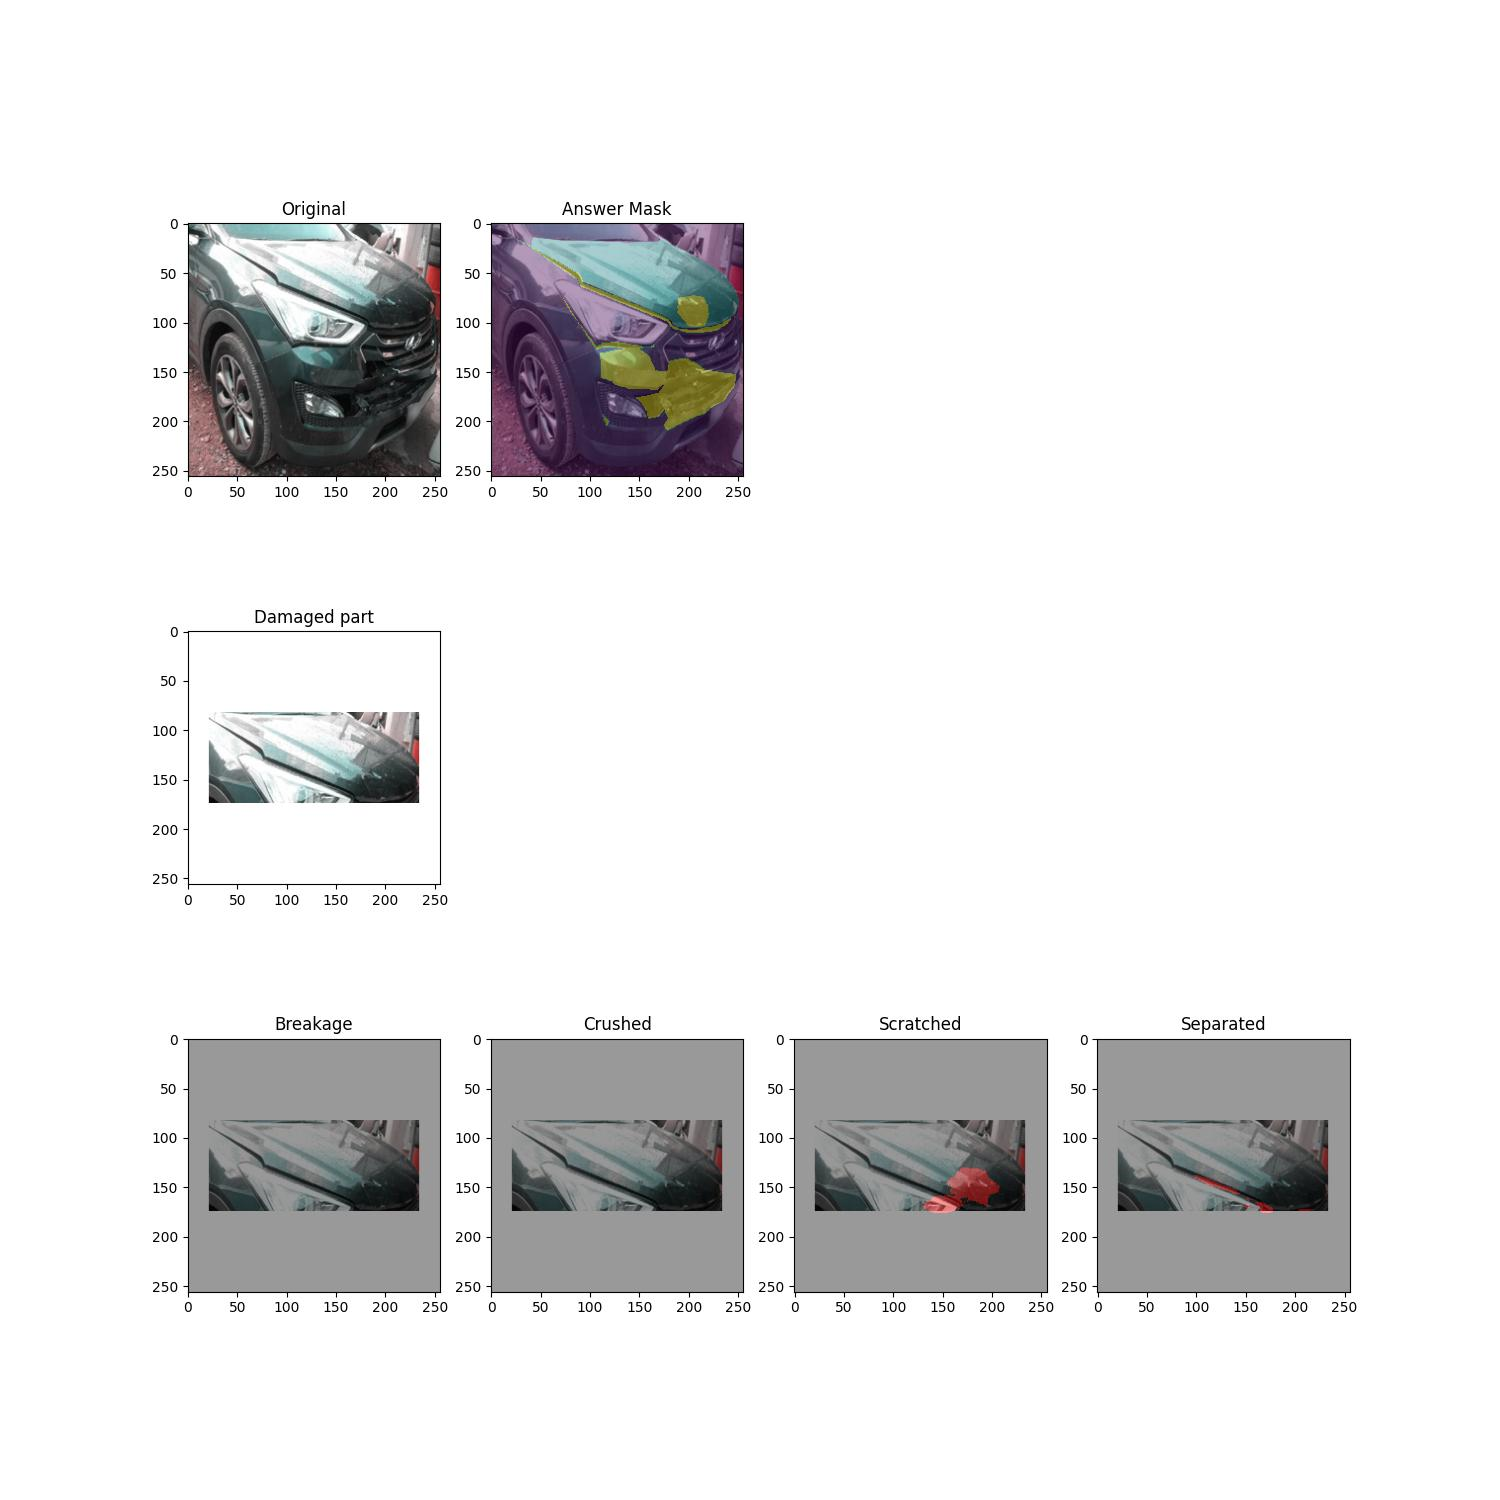
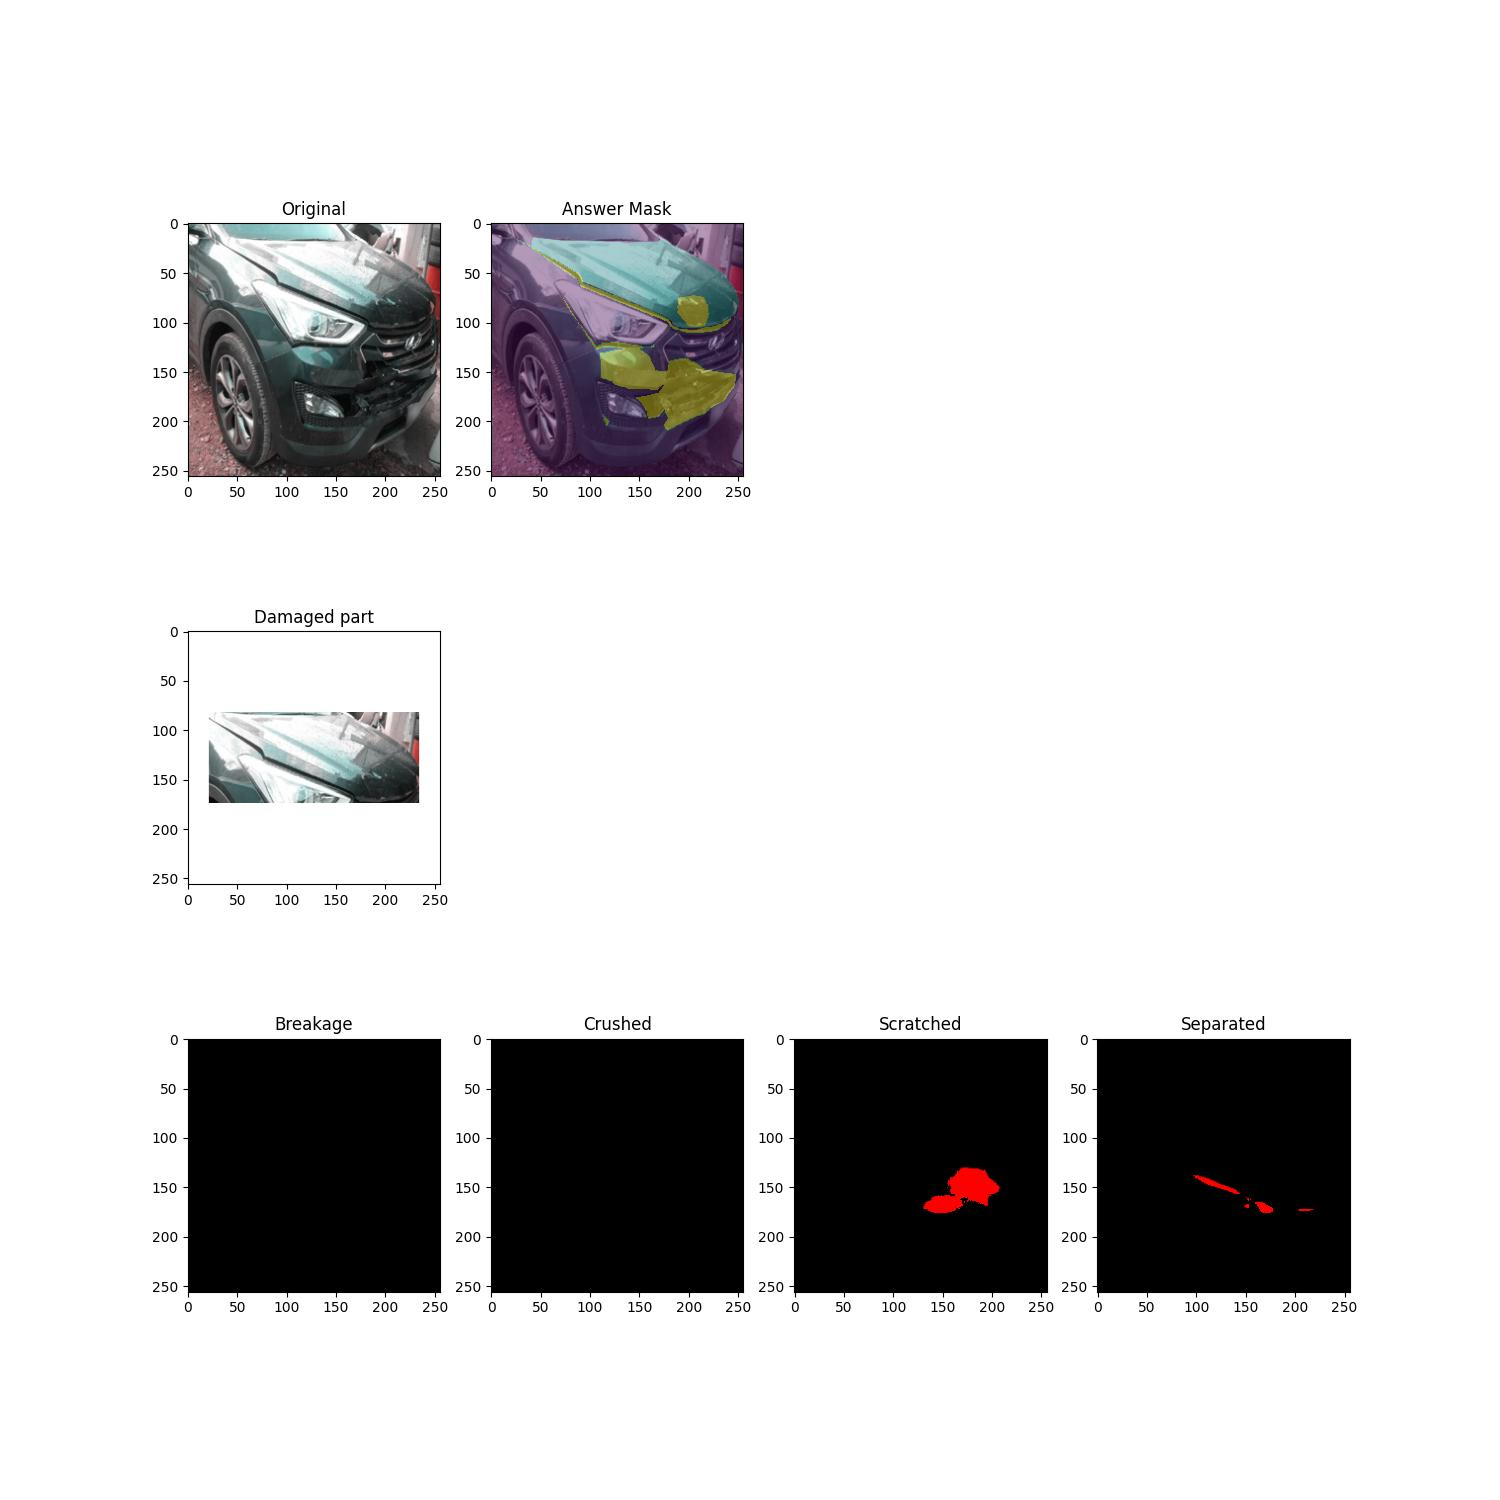
api and pipeline updated

Changed region(s): [[0.1227, 0.6747, 0.92, 0.8587]]

diff --git a/src/pipeline.py b/src/pipeline.py
@@ -9,15 +9,15 @@ import matplotlib.pyplot as plt
 import numpy as np
 import torch
 import torch.nn.functional as F
-import Utils_GradientBoosting
 from PIL import Image
 from pycocotools.coco import COCO
 from scipy import ndimage
 from skimage import color
 from torch.utils.data import DataLoader
 from torchvision.transforms import ToTensor
-
 from ultralytics import YOLO
+
+import Utils_GradientBoosting
 from Model_UNET import Unet
 from Model_VGG19 import IntelCnnModel
 
@@ -180,6 +180,16 @@ def make_damage_predictions(model1, model2, model3, model4, part_img):
 
     return (predMask, val, sum, count)
 
+def damage_drawMask(part_img, damageMask):
+    for x in range(damageMask.shape[0]):
+        for y in range(damageMask.shape[1]):
+            if (damageMask[x,y,0] == 0 and damageMask[x,y,1] == 0 and damageMask[x,y,2] == 0):
+                r, g, b = part_img.getpixel((y, x))
+                damageMask[x,y,0] = r/255
+                damageMask[x,y,1] = g/255
+                damageMask[x,y,2] = b/255
+    return damageMask
+
 def load_part_yolo_model(weight_path):
     model = YOLO(weight_path)
 
@@ -267,19 +277,23 @@ def main():
 
         #damage
         ax[2][0].imshow(origImage, cmap='gray')
-        ax[2][0].imshow(color.label2rgb(damage_mask[0][:,:,0]), alpha=1.0)
+        damage_mask[0] = damage_drawMask(part_img, color.label2rgb(damage_mask[0][:,:,0]))
+        ax[2][0].imshow(damage_mask[0], alpha=0.4)
         ax[2][0].set_title("Breakage")
 
         ax[2][1].imshow(origImage, cmap='gray')
-        ax[2][1].imshow(color.label2rgb(damage_mask[1][:,:,0]), alpha=1.0)
+        damage_mask[1] = damage_drawMask(part_img, color.label2rgb(damage_mask[0][:,:,0]))
+        ax[2][1].imshow(damage_mask[1], alpha=0.4)
         ax[2][1].set_title("Crushed")
 
         ax[2][2].imshow(origImage, cmap='gray')
-        ax[2][2].imshow(color.label2rgb(damage_mask[2][:,:,0]), alpha=1.0)
+        damage_mask[2] = damage_drawMask(part_img, color.label2rgb(damage_mask[0][:,:,0]))
+        ax[2][2].imshow(damage_mask[2], alpha=0.4)
         ax[2][2].set_title("Scratched")
 
         ax[2][3].imshow(origImage, cmap='gray')
-        ax[2][3].imshow(color.label2rgb(damage_mask[3][:,:,0]), alpha=1.0)
+        damage_mask[3] = damage_drawMask(part_img, color.label2rgb(damage_mask[0][:,:,0]))
+        ax[2][3].imshow(damage_mask[3], alpha=0.4)
         ax[2][3].set_title("Separated")
 
         labels = ['Breakage', 'Crushed', 'Scratched', 'Separated']
@@ -354,7 +368,6 @@ def test():
 
     for i in range(len(parts)):
         print("\nDetecting damage in "+parts[i]+"...\n")
-        print(part_coor[i])
         crop = origImage.crop(part_coor[i])
         width, height = crop.size
         part_img = Image.new(crop.mode, (256,256), (255, 255, 255))
@@ -385,19 +398,23 @@ def test():
 
         #damage
         ax[2][0].imshow(part_img, cmap='gray')
-        ax[2][0].imshow(color.label2rgb(damage_mask[0][:,:,0]), alpha=0.4)
+        damage_mask[0] = damage_drawMask(part_img, color.label2rgb(damage_mask[0][:,:,0]))
+        ax[2][0].imshow(damage_mask[0], alpha=0.4)
         ax[2][0].set_title("Breakage")
 
         ax[2][1].imshow(part_img, cmap='gray')
-        ax[2][1].imshow(color.label2rgb(damage_mask[1][:,:,0]), alpha=0.4)
+        damage_mask[1] = damage_drawMask(part_img, color.label2rgb(damage_mask[1][:,:,0]))
+        ax[2][1].imshow(damage_mask[1], alpha=0.4)
         ax[2][1].set_title("Crushed")
 
         ax[2][2].imshow(part_img, cmap='gray')
-        ax[2][2].imshow(color.label2rgb(damage_mask[2][:,:,0]), alpha=0.4)
+        damage_mask[2] = damage_drawMask(part_img, color.label2rgb(damage_mask[2][:,:,0]))
+        ax[2][1].imshow(damage_mask[2], alpha=0.4)
         ax[2][2].set_title("Scratched")
 
         ax[2][3].imshow(part_img, cmap='gray')
-        ax[2][3].imshow(color.label2rgb(damage_mask[3][:,:,0]), alpha=0.4)
+        damage_mask[3] = damage_drawMask(part_img, color.label2rgb(damage_mask[3][:,:,0]))
+        ax[2][1].imshow(damage_mask[3], alpha=0.4)
         ax[2][3].set_title("Separated")
 
         labels = ['Breakage', 'Crushed', 'Scratched', 'Separated']

diff --git a/src/api.py b/src/api.py
@@ -182,6 +182,16 @@ def make_damage_predictions(model1, model2, model3, model4, part_img):
 
     return (predMask, val, sum, count)
 
+def damage_drawMask(part_img, damageMask):
+    for x in range(damageMask.shape[0]):
+        for y in range(damageMask.shape[1]):
+            if (damageMask[x,y,0] == 0 and damageMask[x,y,1] == 0 and damageMask[x,y,2] == 0):
+                r, g, b = part_img.getpixel((y, x))
+                damageMask[x,y,0] = r/255
+                damageMask[x,y,1] = g/255
+                damageMask[x,y,2] = b/255
+    return damageMask
+
 def img_to_str(img):
     img_buffer = BytesIO()
     img.save(img_buffer, format="PNG")
@@ -243,7 +253,7 @@ def test():
         origImage = origImage.resize((256, 256))
         
         data["origImage"] = img_to_str(origImage)
-        #data["origMask"] = ndarray_to_str(origMask)
+        data["origMask"] = skimage_to_str(color.label2rgb(origMask, bg_color=(1,1,1)))
         
         #part_prediction
         parts, part_coor, conf = make_part_predictions(model, origImage)
@@ -266,7 +276,7 @@ def test():
             dict["damage_mask"]=[]
             
             for j in range(4):
-                dict['damage_mask'].append(skimage_to_str(color.label2rgb(damage_mask[j][:,:,0])))
+                dict['damage_mask'].append(skimage_to_str(damage_drawMask(part_img, color.label2rgb(damage_mask[j][:,:,0]))))
 
             dict['damage_info']=[]
             dict['checkbox_info']={}
